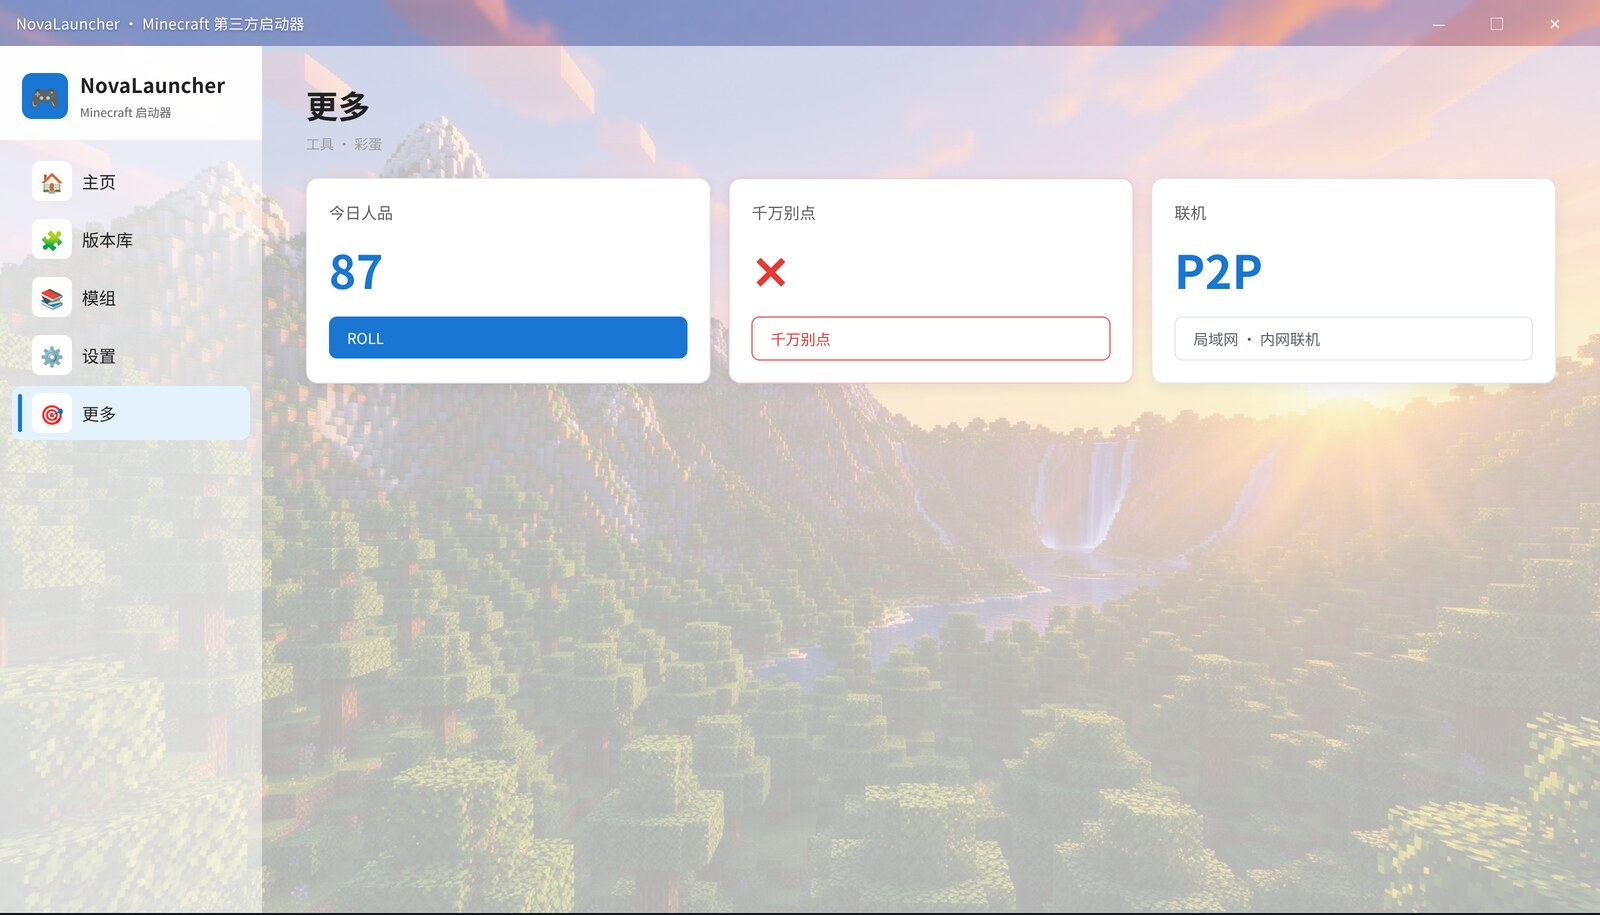
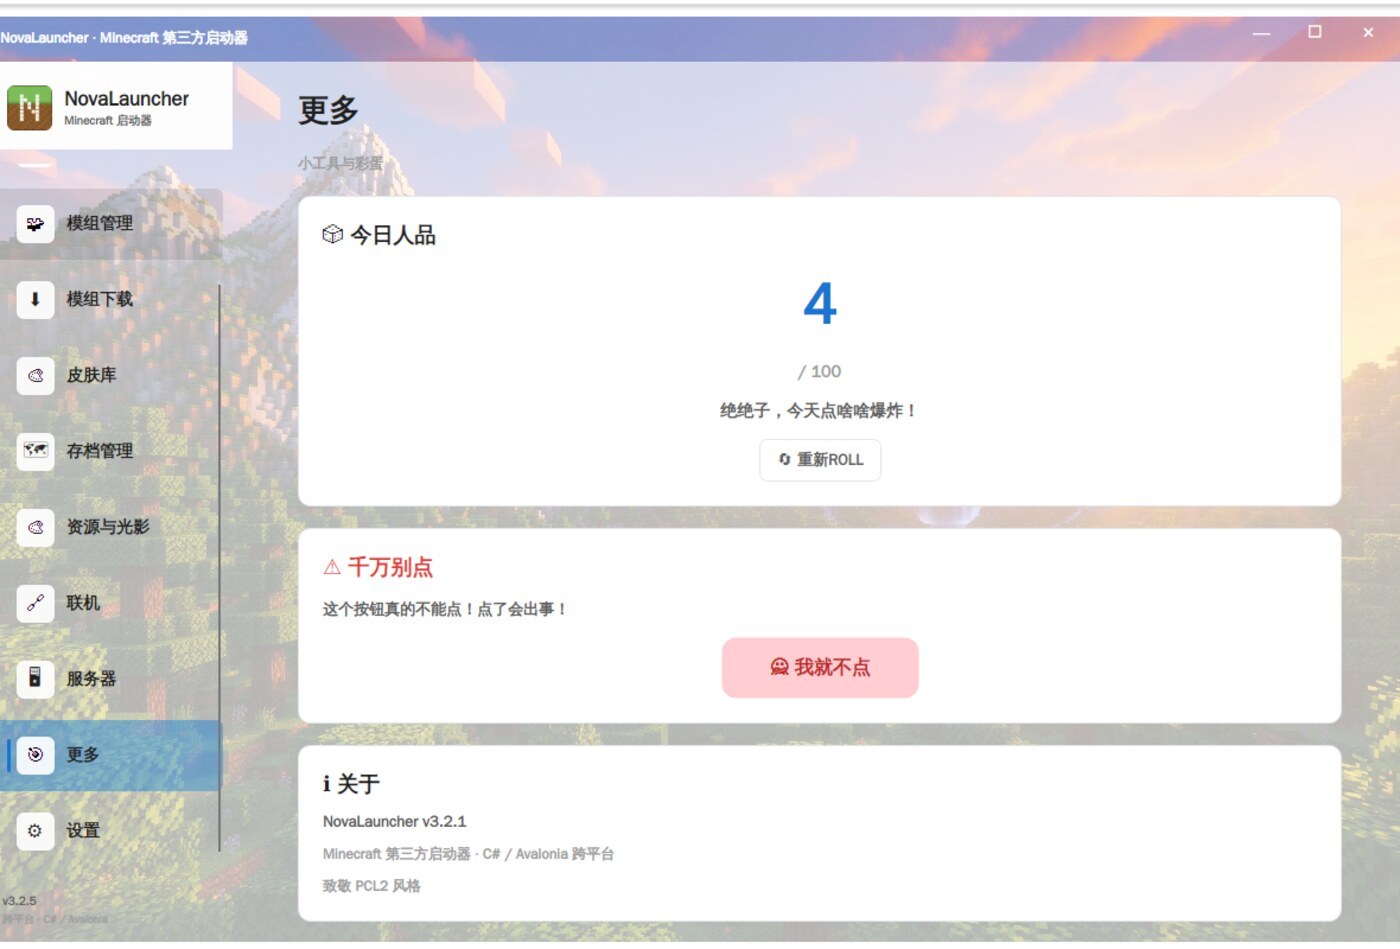
更换全部启动器截图为新方块图标版本，并新增手机版截图画廊

diff --git a/NovaLauncher官网.html b/NovaLauncher官网.html
@@ -129,6 +129,8 @@ section{padding:58px 0}
 
 /* 界面长廊 */
 .strip{display:grid;grid-template-columns:repeat(5,1fr);gap:10px}
+.strip.mob-strip{grid-template-columns:repeat(2,1fr);margin-top:14px}
+.strip.mob-strip figure img{aspect-ratio:5/2}
 .strip figure{margin:0;background:#120d09;border:3px solid #000;box-shadow:inset 0 0 0 2px #4f3b28}
 .strip img{width:100%;height:150px;object-fit:cover}
 .strip figcaption{display:flex;justify-content:space-between;gap:6px;padding:8px 9px;font-size:11.5px;background:#1a130e;border-top:3px solid #000}
@@ -344,9 +346,13 @@ footer{padding:22px}
   <div class="strip">
     <figure><img src="assets/desk-home.jpg" alt="主界面"><figcaption><b>主页</b><span>账户 · 启动配置</span></figcaption></figure>
     <figure><img src="assets/desk-ver.jpg" alt="版本库界面"><figcaption><b>版本库</b><span>安装 · 隔离 · 加载器</span></figcaption></figure>
-    <figure><img src="assets/desk-mod.jpg" alt="模组界面"><figcaption><b>模组</b><span>搜索 · 启用 · 冲突</span></figcaption></figure>
+    <figure><img src="assets/desk-mod.jpg" alt="模组下载界面"><figcaption><b>模组下载</b><span>Modrinth · 版本 · 一键下载</span></figcaption></figure>
     <figure><img src="assets/desk-set.jpg" alt="设置界面"><figcaption><b>设置</b><span>Java · 内存 · 外观</span></figcaption></figure>
     <figure><img src="assets/desk-more.jpg" alt="更多界面"><figcaption><b>更多</b><span>今日人品 · 彩蛋</span></figcaption></figure>
+  </div>
+  <div class="strip mob-strip">
+    <figure><img src="assets/mob-home.jpg" alt="手机版启动页"><figcaption><b>手机版 · 启动</b><span>账户 · 版本 · 日志</span></figcaption></figure>
+    <figure><img src="assets/mob-more.jpg" alt="手机版更多页"><figcaption><b>手机版 · 更多</b><span>今日人品 · 关于</span></figcaption></figure>
   </div>
 </section>
 

diff --git a/index.html b/index.html
@@ -129,6 +129,8 @@ section{padding:58px 0}
 
 /* 界面长廊 */
 .strip{display:grid;grid-template-columns:repeat(5,1fr);gap:10px}
+.strip.mob-strip{grid-template-columns:repeat(2,1fr);margin-top:14px}
+.strip.mob-strip figure img{aspect-ratio:5/2}
 .strip figure{margin:0;background:#120d09;border:3px solid #000;box-shadow:inset 0 0 0 2px #4f3b28}
 .strip img{width:100%;height:150px;object-fit:cover}
 .strip figcaption{display:flex;justify-content:space-between;gap:6px;padding:8px 9px;font-size:11.5px;background:#1a130e;border-top:3px solid #000}
@@ -344,9 +346,13 @@ footer{padding:22px}
   <div class="strip">
     <figure><img src="assets/desk-home.jpg" alt="主界面"><figcaption><b>主页</b><span>账户 · 启动配置</span></figcaption></figure>
     <figure><img src="assets/desk-ver.jpg" alt="版本库界面"><figcaption><b>版本库</b><span>安装 · 隔离 · 加载器</span></figcaption></figure>
-    <figure><img src="assets/desk-mod.jpg" alt="模组界面"><figcaption><b>模组</b><span>搜索 · 启用 · 冲突</span></figcaption></figure>
+    <figure><img src="assets/desk-mod.jpg" alt="模组下载界面"><figcaption><b>模组下载</b><span>Modrinth · 版本 · 一键下载</span></figcaption></figure>
     <figure><img src="assets/desk-set.jpg" alt="设置界面"><figcaption><b>设置</b><span>Java · 内存 · 外观</span></figcaption></figure>
     <figure><img src="assets/desk-more.jpg" alt="更多界面"><figcaption><b>更多</b><span>今日人品 · 彩蛋</span></figcaption></figure>
+  </div>
+  <div class="strip mob-strip">
+    <figure><img src="assets/mob-home.jpg" alt="手机版启动页"><figcaption><b>手机版 · 启动</b><span>账户 · 版本 · 日志</span></figcaption></figure>
+    <figure><img src="assets/mob-more.jpg" alt="手机版更多页"><figcaption><b>手机版 · 更多</b><span>今日人品 · 关于</span></figcaption></figure>
   </div>
 </section>
 
